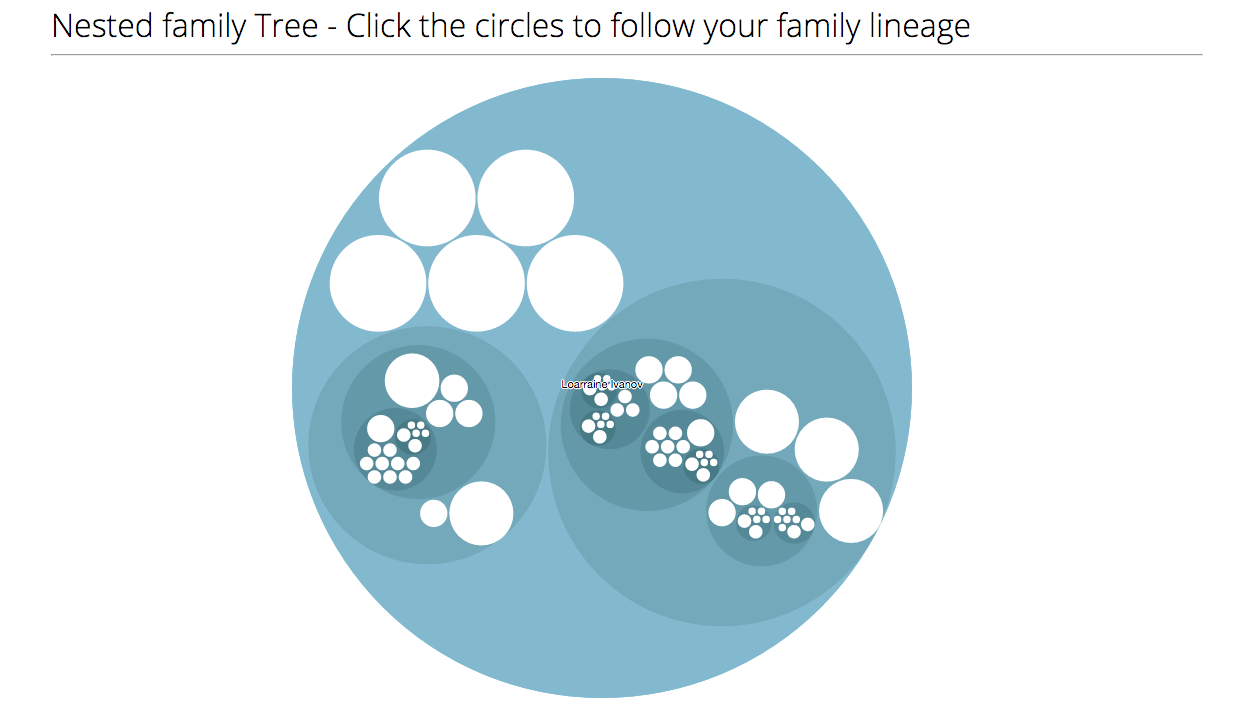
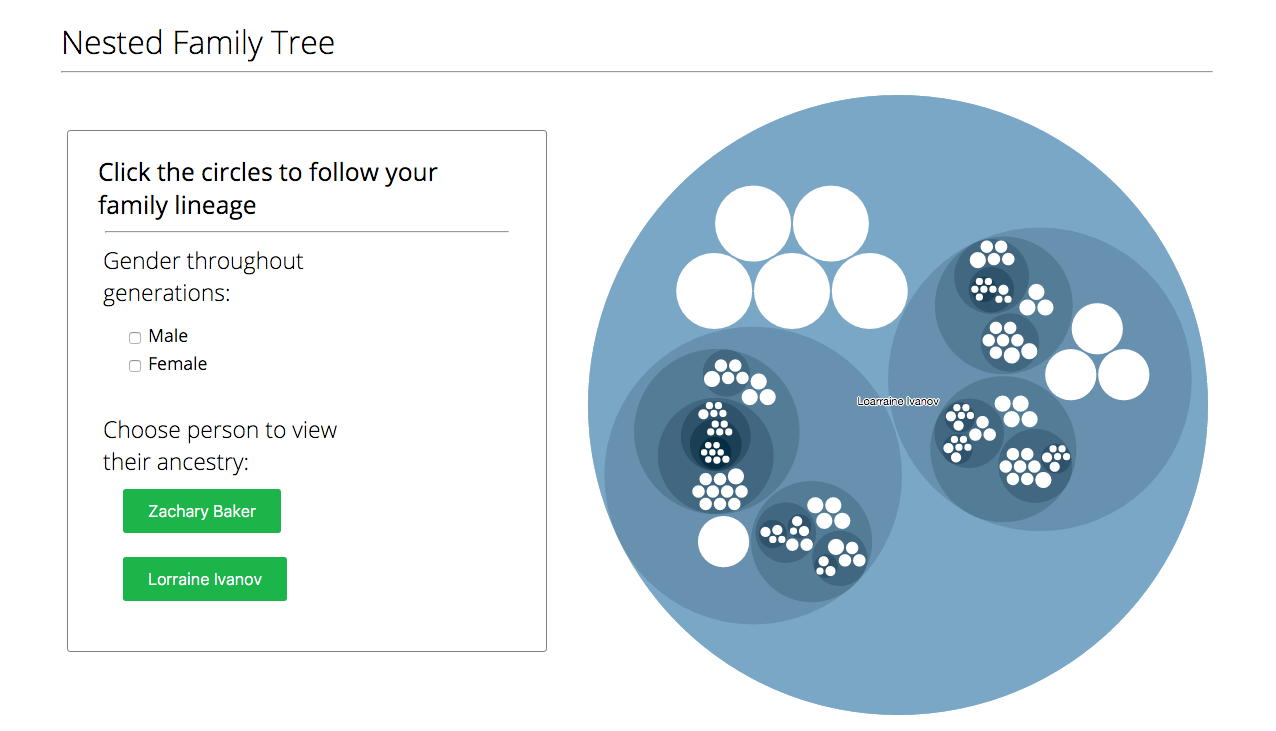
changed final thumbnail

diff --git a/public/dist/styles/styles.css b/public/dist/styles/styles.css
@@ -1,0 +1,11 @@
+#about-wrapper{margin:0 auto;width:90%}#about-wrapper h1{font-size:3.5em;font-weight:300;margin-top:5px;margin-bottom:5px;display:inline-block;margin-left:50px;margin-right:50px}#component-wrapper{width:100%;height:402px;margin-bottom:20px}#about-wrapper i{margin-left:130px;margin-right:130px;color:gray}#about-wrapper span{margin-left:110px}.about-component{margin-left:80px;margin-right:80px;float:left;width:20%}.about-component img{width:120px;text-align:center;margin-left:65px}.about-component a{text-decoration:inherit;color:inherit;font-weight:700}a:visited{text-decoration:inherit;color:inherit}
+.alivesvg{font:10px sans-serif;margin-top:30px}.alivearea{fill:#ffb733;clip-path:url("#clip")}.aliveareaMale{fill:red;clip-path:url("#clip")}.aliveareaFemale{fill:#f3c;clip-path:url("#clip")}.aliveaxis path,.aliveaxis line{fill:none;stroke:#000;shape-rendering:crispEdges}.alivebrush .extent{stroke:#fff;fill-opacity:.125;shape-rendering:crispEdges}.alivePerYearWrapper{margin:0 auto;width:90%}.genderChoice{font-size:15px;margin-bottom:20px}#livingFooter{clear:both;margin-top:50px}.aliveMainWrapper{width:100%;position:relative}.livingSettingsWrapper{width:250px;float:right;text-align:center;border:1px solid gray;font-weight:300;font-family:'Open Sans',sans-serif;margin-right:72px;margin-top:30px}#livingChartSettingsHeader{font-weight:300}.aliveGenderBox label{padding-left:5px;padding-right:5px}
+.birth-month-header{width:90%;margin:0 auto;height:60px}.birth-month-header h1{padding:0;margin-top:25px;margin-bottom:5px;font-weight:300}.birth-month-container{margin:0 auto;width:90%}#settings{float:left;height:100vh;width:26%}#chart-container{height:100vh;float:right;width:72%;position:relative}#svg{position:absolute;top:0;right:0;margin-right:50px}#month-checks{margin-top:70px;float:left}#month-checks-2{margin-top:70px;float:right}#gen-checks{margin-top:70px}#main{float:left;width:750px}#sidebar{float:right;width:100px}#sequence{width:600px;height:70px}#legend{padding:10px 0 0 3px}#sequence text,#legend text{font-weight:600;fill:#fff}#chart{position:relative}#chart path{stroke:#fff}#percentage{font-size:2.5em}.main{opacity:.2}.selected{opacity:1}#settings-holder{border:1px solid gray;height:460px;box-sizing:border-box;margin-top:10%;padding-top:20px;padding-left:35px;padding-right:35px;position:relative;width:320px}#settings-holder h1{font-weight:300;text-align:center;margin-top:0;margin-bottom:10px}#settings-holder h2{font-weight:300;text-align:center;margin:0}#settings-holder button{cursor:pointer;position:absolute;margin:0 auto;font-size:1rem;padding:.75rem 1.5rem;display:block;background-color:#1bb54a;border:1px solid transparent;color:#fff;font-weight:300;-webkit-border-radius:3px;border-radius:3px;-webkit-transition:all .3s ease-in-out;-moz-transition:all .3s ease-in-out;transition:all .3s ease-in-out}#settings-holder button:focus{outline:0}#settings-holder button:hover{background-color:#fff;color:#1bb54a;border-color:#1bb54a}#top-holder{width:100%;height:300px}#total-to-display{width:100%;height:130px;font-weight:300}#total-to-display span{font-weight:700}
+.demoLoginModal{display:flex;flex-direction:column;justify-content:center;align-content:center;align-items:center;height:100%;width:100%;padding:20px}.demoLoginModal div{text-align:center}.demoText{font-size:20px}.demoLoginImg{margin-top:20px;margin-bottom:30px}.clickToContinue{font-weight:bold;margin-bottom:50px;font-size:25px;cursor:pointer}
+body{padding:0;margin:0;width:100%;height:100%;font-family:'Open Sans',sans-serif;font-weight:400}
+.home-chart-axis{display:none;width:5px;fill:none;stroke:#000;shape-rendering:crispEdges}.axis text{font-family:sans-serif;font-size:11px}#wrapper{min-height:100%;position:relative}#heading-holder{background-color:#fff;width:380px;height:285px;margin-left:40px;border-radius:10px;margin-top:30px;padding-top:25px;padding-left:25px;opacity:.9;padding-right:25px}#heading-holder h1{margin:0;color:#000;padding:0;margin-top:0;line-height:20px;margin-left:0 auto;text-align:center}#heading-holder i{opacity:0;margin-left:40px;margin-right:40px;margin-top:20px;animation-delay:8s;-webkit-animation-delay:8s;-webkit-animation-name:fadein;animation-name:fadein;animation-duration:6s;-webkit-animation-duration:6s}#heading-holder hr{margin-top:15px}#visualize{font-weight:400;font-size:1.8em}#your-family{font-size:3em}#main-collage{width:100%;z-index:-100}#collage-holder{position:relative;z-index:-100;position:relative}.home-page-footer{width:100%;height:50px;position:absolute;bottom:0;background-color:#0072bc;color:#fff;text-align:center}.home-page-footer i{margin-left:10px;margin-right:10px;margin-top:10px}.home-page-footer i:hover{cursor:pointer}#fade-background{width:100%;height:100%;position:absolute;top:0;right:0;background-color:rgba(250,250,250,0);animation-delay:5s;-webkit-animation-delay:5s;-webkit-animation-name:fader;animation-name:fader;animation-duration:20s;-webkit-animation-duration:20s}#chart-holder{opacity:0;border-left:4px solid #000;border-bottom:4px solid #000;width:600px;height:250px;top:80px;right:60px;position:absolute;animation-delay:5s;-webkit-animation-delay:5s;-webkit-animation-name:fadein;animation-name:fadein;animation-duration:20s;-webkit-animation-duration:20s}#home-page-chart{width:300px}@-webkit-keyframes fader{0%{background-color:rgba(250,250,250,0)}25%{background-color:rgba(250,250,250,0.8)}50%{background-color:rgba(250,250,250,0.9)}75%{background-color:rgba(250,250,250,0.8)}100%{background-color:rgba(250,250,250,0)}}@-webkit-keyframes fadein{0%{opacity:0}25%{opacity:1}50%{opacity:1}75%{opacity:.8}100%{opacity:0}}@-moz-keyframes fader{0%{background-color:rgba(250,250,250,0)}25%{background-color:rgba(250,250,250,0.8)}50%{background-color:rgba(250,250,250,0.9)}75%{background-color:rgba(250,250,250,0.8)}100%{background-color:rgba(250,250,250,0)}}@-webkit-keyframes fader{0%{background-color:rgba(250,250,250,0)}25%{background-color:rgba(250,250,250,0.8)}50%{background-color:rgba(250,250,250,0.9)}75%{background-color:rgba(250,250,250,0.8)}100%{background-color:rgba(250,250,250,0)}}@-o-keyframes fader{0%{background-color:rgba(250,250,250,0)}25%{background-color:rgba(250,250,250,0.8)}50%{background-color:rgba(250,250,250,0.9)}75%{background-color:rgba(250,250,250,0.8)}100%{background-color:rgba(250,250,250,0)}}@keyframes fader{0%{background-color:rgba(250,250,250,0)}25%{background-color:rgba(250,250,250,0.8)}50%{background-color:rgba(250,250,250,0.9)}75%{background-color:rgba(250,250,250,0.8)}100%{background-color:rgba(250,250,250,0)}}@-moz-keyframes fadein{0%{opacity:0}25%{opacity:1}50%{opacity:1}75%{opacity:.8}100%{opacity:0}}@-webkit-keyframes fadein{0%{opacity:0}25%{opacity:1}50%{opacity:1}75%{opacity:.8}100%{opacity:0}}@-o-keyframes fadein{0%{opacity:0}25%{opacity:1}50%{opacity:1}75%{opacity:.8}100%{opacity:0}}@keyframes fadein{0%{opacity:0}25%{opacity:1}50%{opacity:1}75%{opacity:.8}100%{opacity:0}}
+.infoBoxesWrapper{width:80%;margin:0 auto}.oneInfoBox{width:25%;text-align:center;margin:0 auto;padding:40px}.pie-chart,.tree-icon,.gear-icon{height:100px;width:100px}#infoBoxText{font-weight:300;margin-bottom:80px}
+.learnMoreWrapper{display:flex;flex-direction:column;justify-content:center;align-items:center;align-content:center;width:100%}.pictureRow{display:flex;flex-direction:row;justify-content:space-around;width:100%;margin-top:20px}.learnMorePic1{height:180px;width:350px;margin-left:20px;margin-right:20px;margin-top:20px;margin-bottom:20px;background-image:url("../../images/learn-more-asian.jpg");background-size:cover;background-repeat:no-repeat}.learnMorePic2{height:180px;width:350px;margin-left:20px;margin-right:20px;margin-top:20px;margin-bottom:20px;background-image:url("../../images/learn-more-white.jpg");background-size:cover;background-repeat:no-repeat}.learnMorePic3{height:180px;width:350px;margin-left:20px;margin-right:20px;margin-top:20px;margin-bottom:40px;background-image:url("../../images/learn-more-african-american.jpg");background-size:cover;background-repeat:no-repeat}.faqsList{display:flex;flex-direction:column;width:90%;justify-content:center;align-content:center}.question{font-size:1.5em;font-weight:400;width:100%}.answer{font-size:1.2em;font-weight:300;margin-top:10px;margin-bottom:45px}.famSearchLink:visited{color:#000}.learnMoreLogos{display:flex;flex-direction:row;flex-wrap:wrap;justify-content:space-around;align-items:center;align-content:space-around;width:65%;margin-top:20px;margin-bottom:20px}.famGraphImg{padding-top:21px}.plusSign{padding-top:17px}
+.lifespanContainerTop{display:flex;flex-direction:row;justify-content:space-around;align-items:center;height:100%;width:100%}.lifespanChartTitle{text-align:center;margin-bottom:10px;font-size:25px;font-weight:bold;width:100%}.lifespanChartLeft{display:flex;flex-direction:column;justify-content:space-around;align-items:flex-start;margin:20px}.lifespanChartRightOutside{display:flex;flex-direction:column;align-items:center;border:1px solid gray;height:100%;width:222px;margin-bottom:85px;margin-right:35px}.lifespanChartRightTop{background-color:#fff;width:90%;margin-top:10px;border-radius:3px}.lifespanChartRightBottom{background-color:#fff;width:90%;margin:10px;border-radius:3px}.lifespanSideTitle{font-size:20px;font-weight:300;text-align:center}.lifespanChartSide div{padding-left:20px;padding-right:20px;display:flex;flex-direction:column;justify-content:space-around;align-items:space-around;text-align:center;margin-bottom:20px}.statName{font-weight:300;display:flex;flex-direction:row;align-items:center;margin-left:16px}.stat{font-weight:400;height:25px;text-align:center;font-size:20px;margin-left:15px}.handle{cursor:pointer}.slider .handle path{pointer-events:none}.slider .handle text{fill:#000;text-align:center;font-size:20px}.lifespanXAxis g text{font-size:.7em}.lifespanYAxis g text{font-size:.7em}.axisLine path{stroke:#000;stroke-width:1px;fill:none}.personCircle:hover{opacity:1}#lifespanTooltip{display:flex;flex-direction:row;justify-content:center;align-items:center;position:absolute;top:0;left:0;z-index:300;margin:0;padding:10px;color:#fff;font-size:12px;text-align:center;background-color:rgba(0,0,0,0.75);opacity:0;pointer-events:none}.radioButtonForm{display:flex;flex-direction:row;justify-content:center;margin-top:15px}.radioButtonForm label{margin-right:10px;margin-left:10px;margin-bottom:10px;text-align:center;font-weight:300}.axisLabel{font-weight:bold}.lifespanContainerBottom{display:flex;flex-direction:column;justify-content:center;align-content:center;padding:20px;background-color:#0072bc;color:#fff}.lifespanContainerBottom h2{text-align:center}.lifespanContainerBottom li{font-size:20px;margin:20px}.lifespanChartDescription{display:flex;flex-direction:column;align-items:center}
+.menuBar{height:60px;width:100%;background-color:#1bb54a;margin-top:0;color:#fff}.logo{float:left;height:45px;padding:5px 0 0 10px}.links{list-style-type:none;margin:0;font-weight:400}.links li{float:right;padding:19px 30px 0 0}.links a{text-decoration:none;color:#fff;font-size:1em}.links a:hover{color:#f4f4f4}#auth-modal{width:410px;height:410px;overflow:hidden;position:relative;border-radius:10px}#auth-modal iframe{width:410px;height:410px}
+.thumbnail-holder{background-color:#ebebeb;width:400px;height:260px;border-radius:10px;margin-top:20px;margin-left:40px;margin-right:40px;display:inline-block}.thumbnail-container{width:90%;margin:0 auto;text-align:center;display:flex;flex-direction:row;flex-wrap:wrap}.thumbnail{width:380px;height:260px;background-image:url("../../images/graph-image-1.png");background-size:cover;display:inline-block;border-radius:10px;margin-left:20px;margin-right:20px;margin-top:20px}.thumbnail1{background-image:url("../../images/graph-image-1.png");background-size:cover}.thumbnail2{background-image:url("../../images/graph-image-2.png");background-size:cover}.thumbnail3{background-image:url("../../images/graph-image-3.png");background-size:cover}.thumbnail4{background-image:url("../../images/graph-image-4.png");background-size:cover}.thumbnail-pane{background-color:#1bb54a;width:380px;height:260px;opacity:0;-webkit-transition:.3s ease-in-out;transition:.3s ease-in-out;border-radius:10px;position:relative;display:inline-block}.thumbnail-pane:hover{opacity:.85}.thumbnail-text{margin:0;color:#fff;font-weight:bolder;font-size:2em;position:absolute}.thumby1{top:50px;left:110px}.thumbSubText1{text-align:left;color:#fff;position:absolute;top:135px;left:20px;font-weight:300}.thumby2{top:80px;left:124px}.thumbSubText2{text-align:left;color:#fff;position:absolute;top:125px;left:20px;font-weight:300}.thumby3{top:80px;left:104px}.thumbSubText3{text-align:left;color:#fff;position:absolute;top:125px;left:20px;font-weight:300}.thumby4{top:50px;left:120px}.thumbSubText4{text-align:left;color:#fff;position:absolute;top:130px;left:20px;font-weight:300}

diff --git a/public/dist/html/thumbnail-home-view/thumbnail-home.html b/public/dist/html/thumbnail-home-view/thumbnail-home.html
@@ -1,0 +1,1 @@
+<menu-bar-dir></menu-bar-dir><div><header class="birth-month-header"><h1>Select a Chart Below To Get Started</h1><hr></header><div class="thumbnail-container hover12"><a ui-sref="birthMonth"><div class="thumbnail thumbnail1"><div class="thumbnail-pane"><p class="thumbnail-text thumby1">Births<br>Per Month</p><p class="thumbSubText1">This chart shows the number of births<br>per month per generation.</p></div></div></a> <a ui-sref="lifespan"><div class="thumbnail thumbnail2"><div class="thumbnail-pane"><p class="thumbnail-text thumby2">Lifespan</p><p class="thumbSubText2">This chart shows the lifespan per generation.</p></div></div></a> <a ui-sref="thumbnailView"><div class="thumbnail thumbnail3"><div class="thumbnail-pane"><p class="thumbnail-text thumby3">Nested Tree</p><p class="thumbSubText3">This chart shows a nested tree of your lineage.</p></div></div></a> <a ui-sref="alive"><div class="thumbnail thumbnail4"><div class="thumbnail-pane"><p class="thumbnail-text thumby4">Living<br>Relatives</p><p class="thumbSubText4">This chart shows the number of living<br>relatives for each year.</p></div></div></a><!-- <img src="images/*graph-image-1.png" alt=""> --></div><footer-dir></footer-dir></div>
